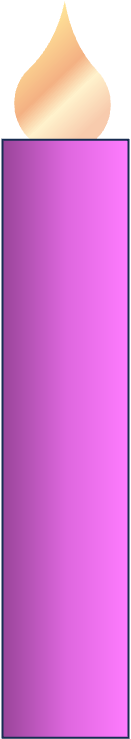
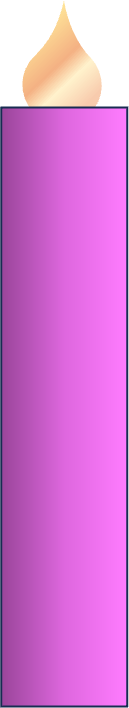
Added candle lighting functionality

Changed region(s): [[0.0, 0.0311, 1.0, 1.0], [0.2171, 0.0621, 0.3411, 0.0932], [0.3721, 0.0311, 0.4031, 0.0621]]

diff --git a/index.html b/index.html
@@ -14,10 +14,10 @@
         <img class="wreath" src="img/wreath.png" alt="wreath">
     </div>
     <div class="candle-grid">
-        <img class="candle" id="candle-1" src="img/purple_unlit.png" alt="Unlit Purple Candle">
-        <img class="candle" id="candle-2" src="img/purple_unlit.png" alt="Unlit Purple Candle">
-        <img class="candle" id="candle-3" src="img/pink_unlit.png" alt="Unlit Pink Candle">
-        <img class="candle" id="candle-4" src="img/purple_unlit.png" alt="Unlit Purple Candle">
+        <img class="candle" id="candle-1" src="img/purple_unlit.png" onclick="this.src='img/purple_lit.png'" alt="Unlit Purple Candle">
+        <img class="candle" id="candle-2" src="img/purple_unlit.png" onclick="this.src='img/purple_lit.png'" alt="Unlit Purple Candle">
+        <img class="candle" id="candle-3" src="img/pink_unlit.png" onclick="this.src='img/pink_lit.png'"alt="Unlit Pink Candle">
+        <img class="candle" id="candle-4" src="img/purple_unlit.png" onclick="this.src='img/purple_lit.png'" alt="Unlit Purple Candle">
     </div>
 </body>
 </html>

diff --git a/script.js b/script.js
@@ -1,0 +1,3 @@
+// function lightCandle () {
+//     document.getElementById("ChangeCandle").src="img/purple_lit.png";
+// }
